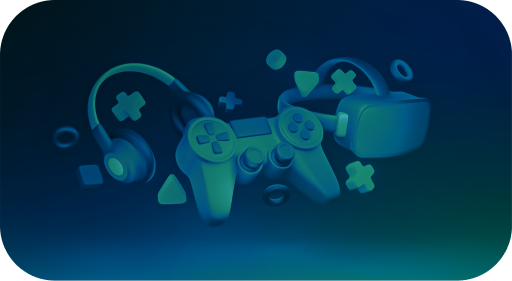
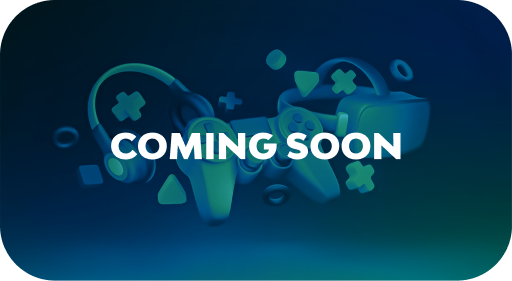
add home sec1 basic

Changed region(s): [[0.2188, 0.4555, 0.7812, 0.5694]]

diff --git a/index.html b/index.html
@@ -35,7 +35,7 @@
       <div class="container d-flex justify-content-between align-items-center flex-wrap" style="border-bottom: #65BA8E 4px solid;">
         <a href="index.html"><img src="./asset/img/LOGOI-05 1.png" style="max-width: 300px;"></a>
         <nav class="navbar navbar-expand-lg">
-          <div>
+          <div class="d-flex align-items-center justify-content-between">
             <button class="navbar-toggler" type="button" data-bs-toggle="collapse" data-bs-target="#navbarNav">
               <span class="navbar-toggler-icon"></span>
             </button>
@@ -75,35 +75,57 @@
         </div>
       </div>
     </div>
-    <section class="container d-flex flex-column">
-        <div id="homeSec1" class="d-flex align-items-center justify-content-between">
-            <div id="carouselExampleControls" class="carousel slide col-8" data-ride="carousel">
-                <div class="carousel-inner">
-                  <div class="carousel-item active">
-                    <img src="./asset/img/swiper.png" class="d-block w-100" alt="...">
-                  </div>
-                  <div class="carousel-item">
-                    <img src="..." class="d-block w-100" alt="...">
-                  </div>
-                  <div class="carousel-item">
-                    <img src="..." class="d-block w-100" alt="...">
-                  </div>
+    <section class="container d-flex flex-column gap-3">
+        <div class="container py-4">
+            <div class="row">
+                <!-- Carousel -->
+                <div class="col-lg-8">
+                    <div id="gameOfferCarousel" class="carousel slide game-offer" data-bs-ride="carousel">
+                        <div class="carousel-inner">
+                            <div class="carousel-item active">
+                                <div class="d-flex align-items-center">
+                                    <div class="col-md-6">
+                                        <h2>GAME OFFERS</h2>
+                                        <p>Lorem ipsum dolor sit amet, consectetur adipiscing elit...</p>
+                                        <button class="btn btn-custom">GET PRICE</button>
+                                    </div>
+                                    <div class="col-md-6 text-center">
+                                        <img src="./asset/img/swiper.png" class="img-fluid">
+                                    </div>
+                                </div>
+                            </div>
+                            <div class="carousel-item ">
+                                <div class="d-flex align-items-center">
+                                    <div class="col-md-6">
+                                        <h2>GAME OFFERS</h2>
+                                        <p>Lorem ipsum dolor sit amet, consectetur adipiscing elit...</p>
+                                        <button class="btn btn-custom">GET PRICE</button>
+                                    </div>
+                                    <div class="col-md-6 text-center">
+                                        <img src="./asset/img/swiper2.jpg" class="img-fluid">
+                                    </div>
+                                </div>
+                            </div>
+
+                        </div>
+                        <button class="carousel-control-prev" type="button" data-bs-target="#gameOfferCarousel" data-bs-slide="prev">
+                            <span class="carousel-control-prev-icon"></span>
+                        </button>
+                        <button class="carousel-control-next" type="button" data-bs-target="#gameOfferCarousel" data-bs-slide="next">
+                            <span class="carousel-control-next-icon"></span>
+                        </button>
+                    </div>
                 </div>
-                <a class="carousel-control-prev" href="#carouselExampleControls" role="button" data-slide="prev">
-                  <span class="carousel-control-prev-icon" aria-hidden="true"></span>
-                  <span class="sr-only">Previous</span>
-                </a>
-                <a class="carousel-control-next" href="#carouselExampleControls" role="button" data-slide="next">
-                  <span class="carousel-control-next-icon" aria-hidden="true"></span>
-                  <span class="sr-only">Next</span>
-                </a>
-              </div>
-            <div class="col-sm-6 col-md-3">
-                    <img class="w-100" src="./asset/img/fighting.png">
-                    <img class="w-100" src="./asset/img/comming.png">
+                <div class="col-lg-4 d-flex flex-column gap-3 mt-3 mt-lg-0">
+                    <div class="game-card">
+                        <img src="./asset/img/fighting.png" alt="Fighting Game">
+                    </div>
+                    <div class="game-card">
+                        <img src="./asset/img/comming.png" alt="Coming Soon">
+                    </div>
+                </div>
             </div>
         </div>
-        
     </section>
 
 

diff --git a/asset/css/style.css b/asset/css/style.css
@@ -271,3 +271,20 @@ form .form-group .form-control:focus{
     font-family:"Bw Modelica DEMO Black";
 
 }
+.game-offer {
+    border-radius: 15px;
+    padding: 20px;
+}
+.game-card {
+    border-radius: 10px;
+}
+.game-card img {
+    border-radius: 10px;
+    width: 100%;
+    height: 100%;
+}
+.btn-custom {
+    background-color: #5fa37b;
+    color: white;
+    border-radius: 20px;
+}

diff --git a/asset/js/style.js b/asset/js/style.js
@@ -19,3 +19,4 @@ form.addEventListener('submit', function(event) {
     event.preventDefault();
     console.log('Form submitted without refreshing the page!');
 });
+
